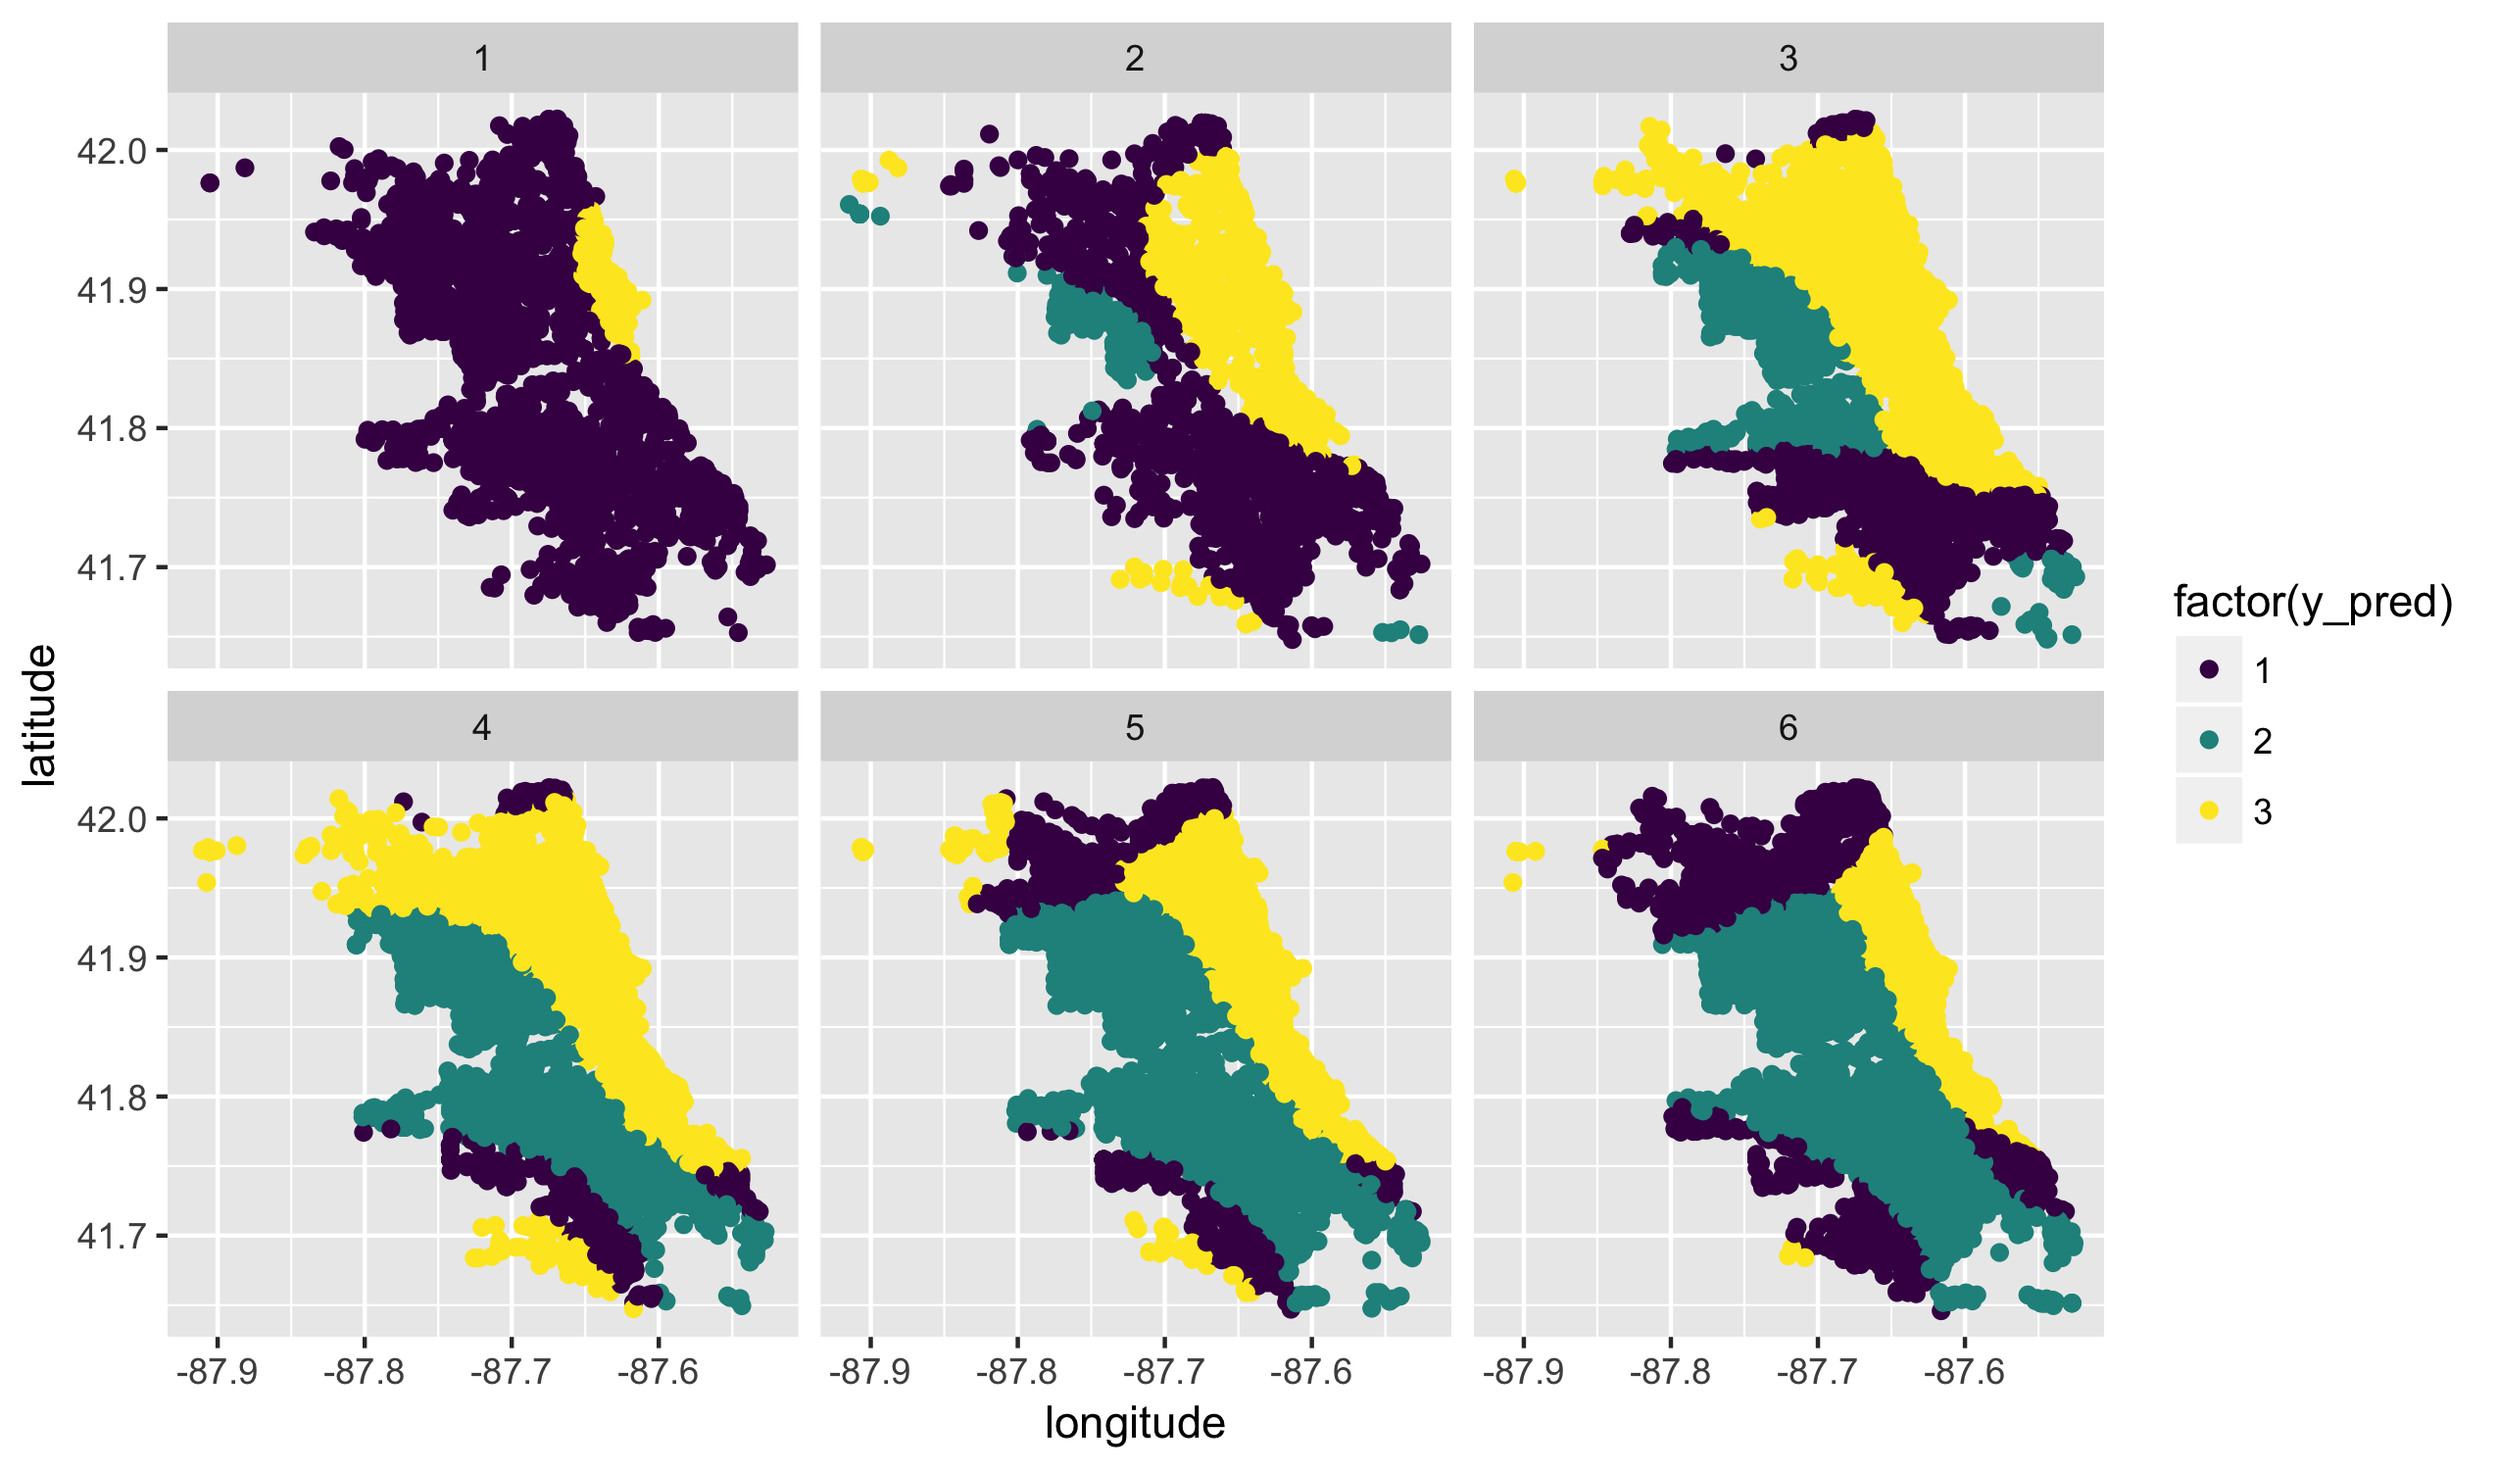
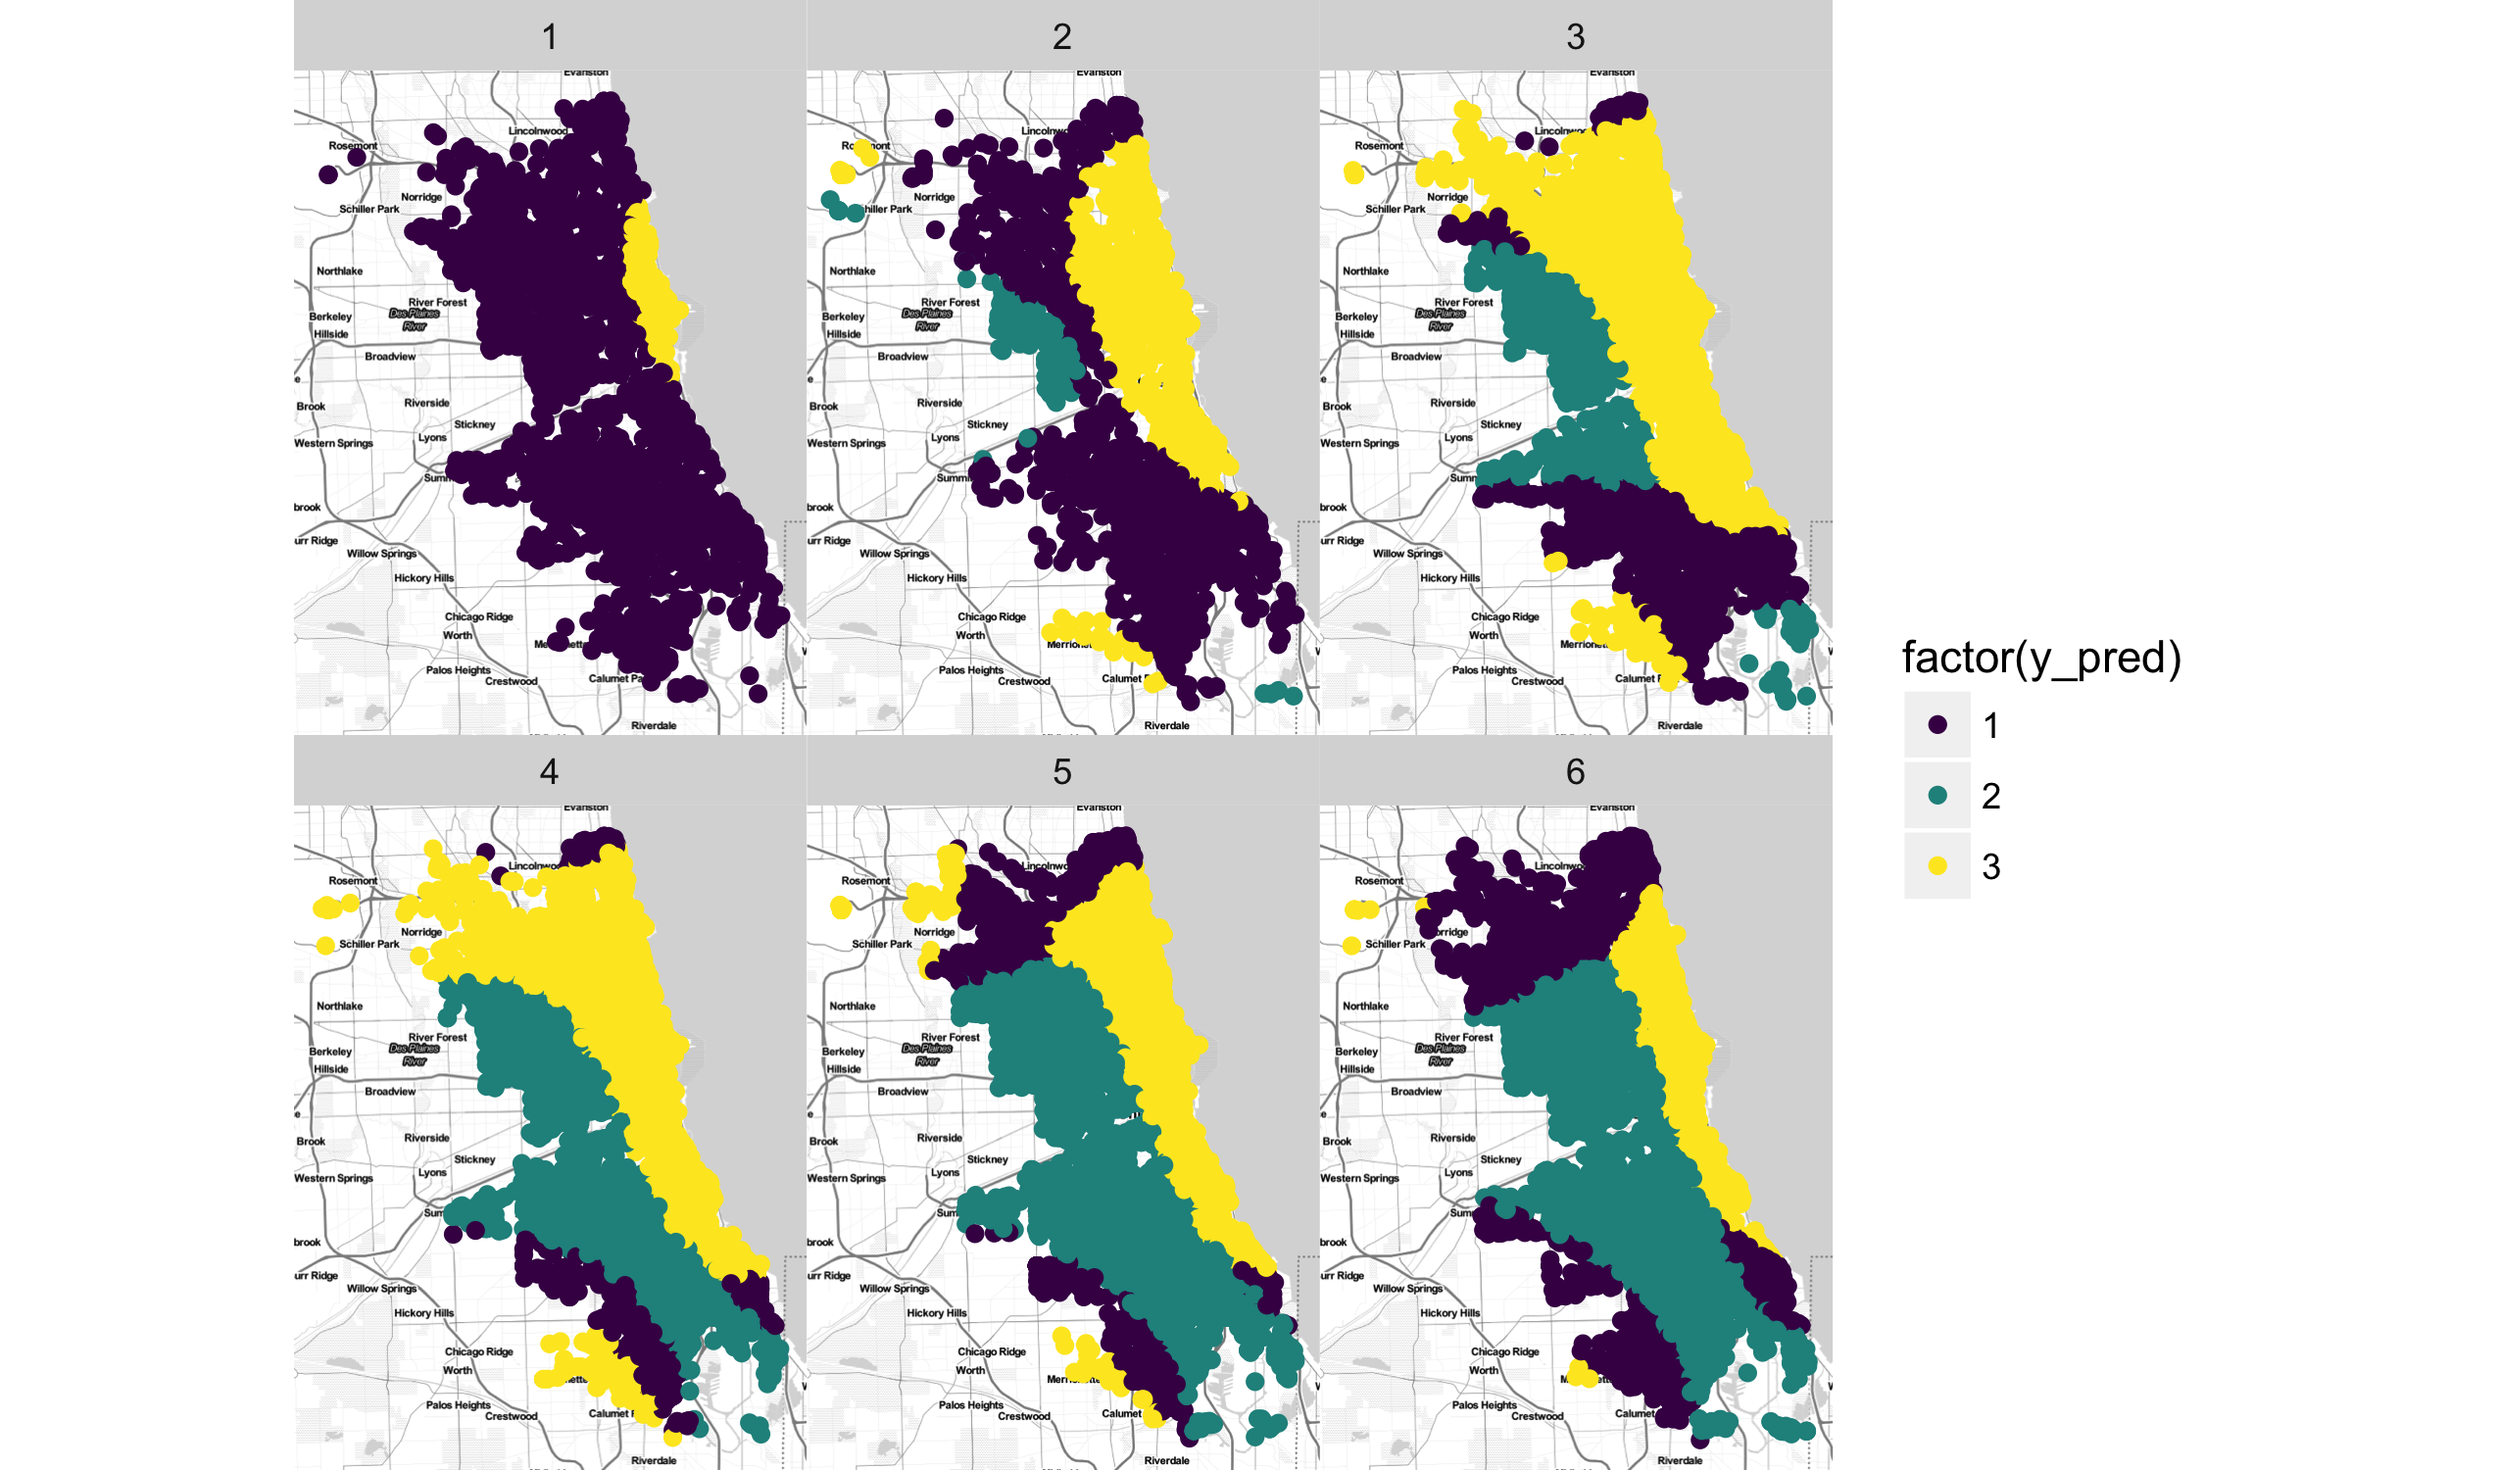
update labs

diff --git a/_posts/2017-09-21-class08.md b/_posts/2017-09-21-class08.md
@@ -79,11 +79,11 @@ well. When the number of categories is large, the first takes
 a lot of computational resource to compare all pairs of models.
 The second becomes hard because it has a tendency to make every
 point look like the "all" (since it dominates any individual
-group). 
+group).
 
 We could implement either of these strategies ourselves. Some
 models, such as GAMs, don't directly implement any other way
-of doing multi-class prediction and that would be the only 
+of doing multi-class prediction and that would be the only
 approach if we wanted to use them. The **e1071** package will
 do the *one-vs-one* when given multiple classes (so be
 carefuly giving it too many classes). Today we will see a
@@ -95,8 +95,8 @@ problem that avoids the multiclass issue in its entirety.
 
 The **nnet** package provides a function `multinom` that
 generalizes the logistic regression in the `glm` function.
-It requires almost no special settings; just supply a 
-formula as usual but with a categorical response. The 
+It requires almost no special settings; just supply a
+formula as usual but with a categorical response. The
 function will print out verbose information letting you
 know how quickly it converges.
 
@@ -126,7 +126,7 @@ model <- multinom(crime_type ~ poly(longitude, latitude, degree = 3),
 ## stopped after 100 iterations
 {% endhighlight %}
 
-The predicted values from the predict function give, by default, 
+The predicted values from the predict function give, by default,
 the class predictions:
 
 
@@ -173,12 +173,12 @@ tapply(crimes$y_pred == crimes$crime_type, crimes$train_id, mean)
 
 {% highlight text %}
 ##      test     train     valid 
-##        NA 0.4600556 0.4643333
+##        NA 0.4601111 0.4643333
 {% endhighlight %}
 
 With more than two classes, there is more than one kind of error.
 Which crimes, for example, are we having trouble distinguishing?
-The confusion matrix shows 
+The confusion matrix shows
 
 
 {% highlight r %}
@@ -190,7 +190,7 @@ table(y = crimes$crime_type, y_pred = crimes$y_pred)
 {% highlight text %}
 ##    y_pred
 ## y      1    2    3
-##   1 2866 2882 2304
+##   1 2867 2881 2304
 ##   2 1995 4500 1510
 ##   3 2198 2044 3701
 {% endhighlight %}
@@ -205,7 +205,7 @@ You might wonder why we are using a neural network package for
 fitting multinomial models. This is a very old package; I can't
 find the exact original publication date but I believe it was
 pre version 2.0 of R (2004-10-04). The neural networks here do
-not have the functions that you might be familiar with from 
+not have the functions that you might be familiar with from
 another class or research project. However, there is a close
 relationship between neural networks and regression theory.
 We will ook at this in just a couple of weeks.
@@ -217,7 +217,7 @@ As I mentioned in the course introduction, I think of models as
 coming in two categories: local and global. Everything we have
 seen is inherently global, though we have tried to create
 local effects through non-linearities and basis expansion
-techniques. 
+techniques.
 
 The nearest neighbor classification algorithm does something very
 simple: categorize each point with whatever category is more
@@ -229,7 +229,7 @@ will use for this is **FNN**, for fast nearest neighbors.
 library(FNN)
 {% endhighlight %}
 
-In order to use nearest neighbors, we need to create a model 
+In order to use nearest neighbors, we need to create a model
 matrix. FNN does not accept a formula input.
 
 
@@ -279,7 +279,7 @@ qmplot(longitude, latitude, data = crimes,
 <img src="../assets/2017-09-21-class08/unnamed-chunk-14-1.png" title="plot of chunk unnamed-chunk-14" alt="plot of chunk unnamed-chunk-14" width="100%" />
 
 The nearest neighbors algorithm is of course very sensitive to
-the choice of k. You can tune it using the validation set. 
+the choice of k. You can tune it using the validation set.
 Also, the function `knn.reg` can be used to do nearest neighbors
 for prediction of a continuous response (notice the use of
 "regression" to contrast with "classification").
@@ -293,7 +293,7 @@ variables (such as, time, latitude, and income) the algorithm
 will basically ignore any variables that have a very different
 scale. By default `knn` just uses ordinary Euclidean distances.
 
-One simple fix is to use the `scale` function on the data 
+One simple fix is to use the `scale` function on the data
 matrix `X`:
 
 
@@ -302,7 +302,7 @@ X <- scale(X)
 X_train <- X[crimes$train_id == "train",]
 {% endhighlight %}
 
-It does not change much here because latitude and longitude 
+It does not change much here because latitude and longitude
 have different scales. In other applications it drastically
 changes the fit.
 
@@ -356,7 +356,7 @@ type changes throughout the day and over the city.
 
 
 {% highlight r %}
-qplot(longitude, latitude, data = crimes, color = factor(y_pred)) +
+qmplot(longitude, latitude, data = crimes, color = factor(y_pred)) +
   viridis::scale_color_viridis(discrete = TRUE) +
   facet_wrap(~h6)
 {% endhighlight %}
@@ -364,7 +364,7 @@ qplot(longitude, latitude, data = crimes, color = factor(y_pred)) +
 <img src="../assets/2017-09-21-class08/unnamed-chunk-18-1.png" title="plot of chunk unnamed-chunk-18" alt="plot of chunk unnamed-chunk-18" width="100%" />
 
 This is a good example of how predictive modelling can be
-used for meaninful data analysis. 
+used for meaninful data analysis.
 
 
 
